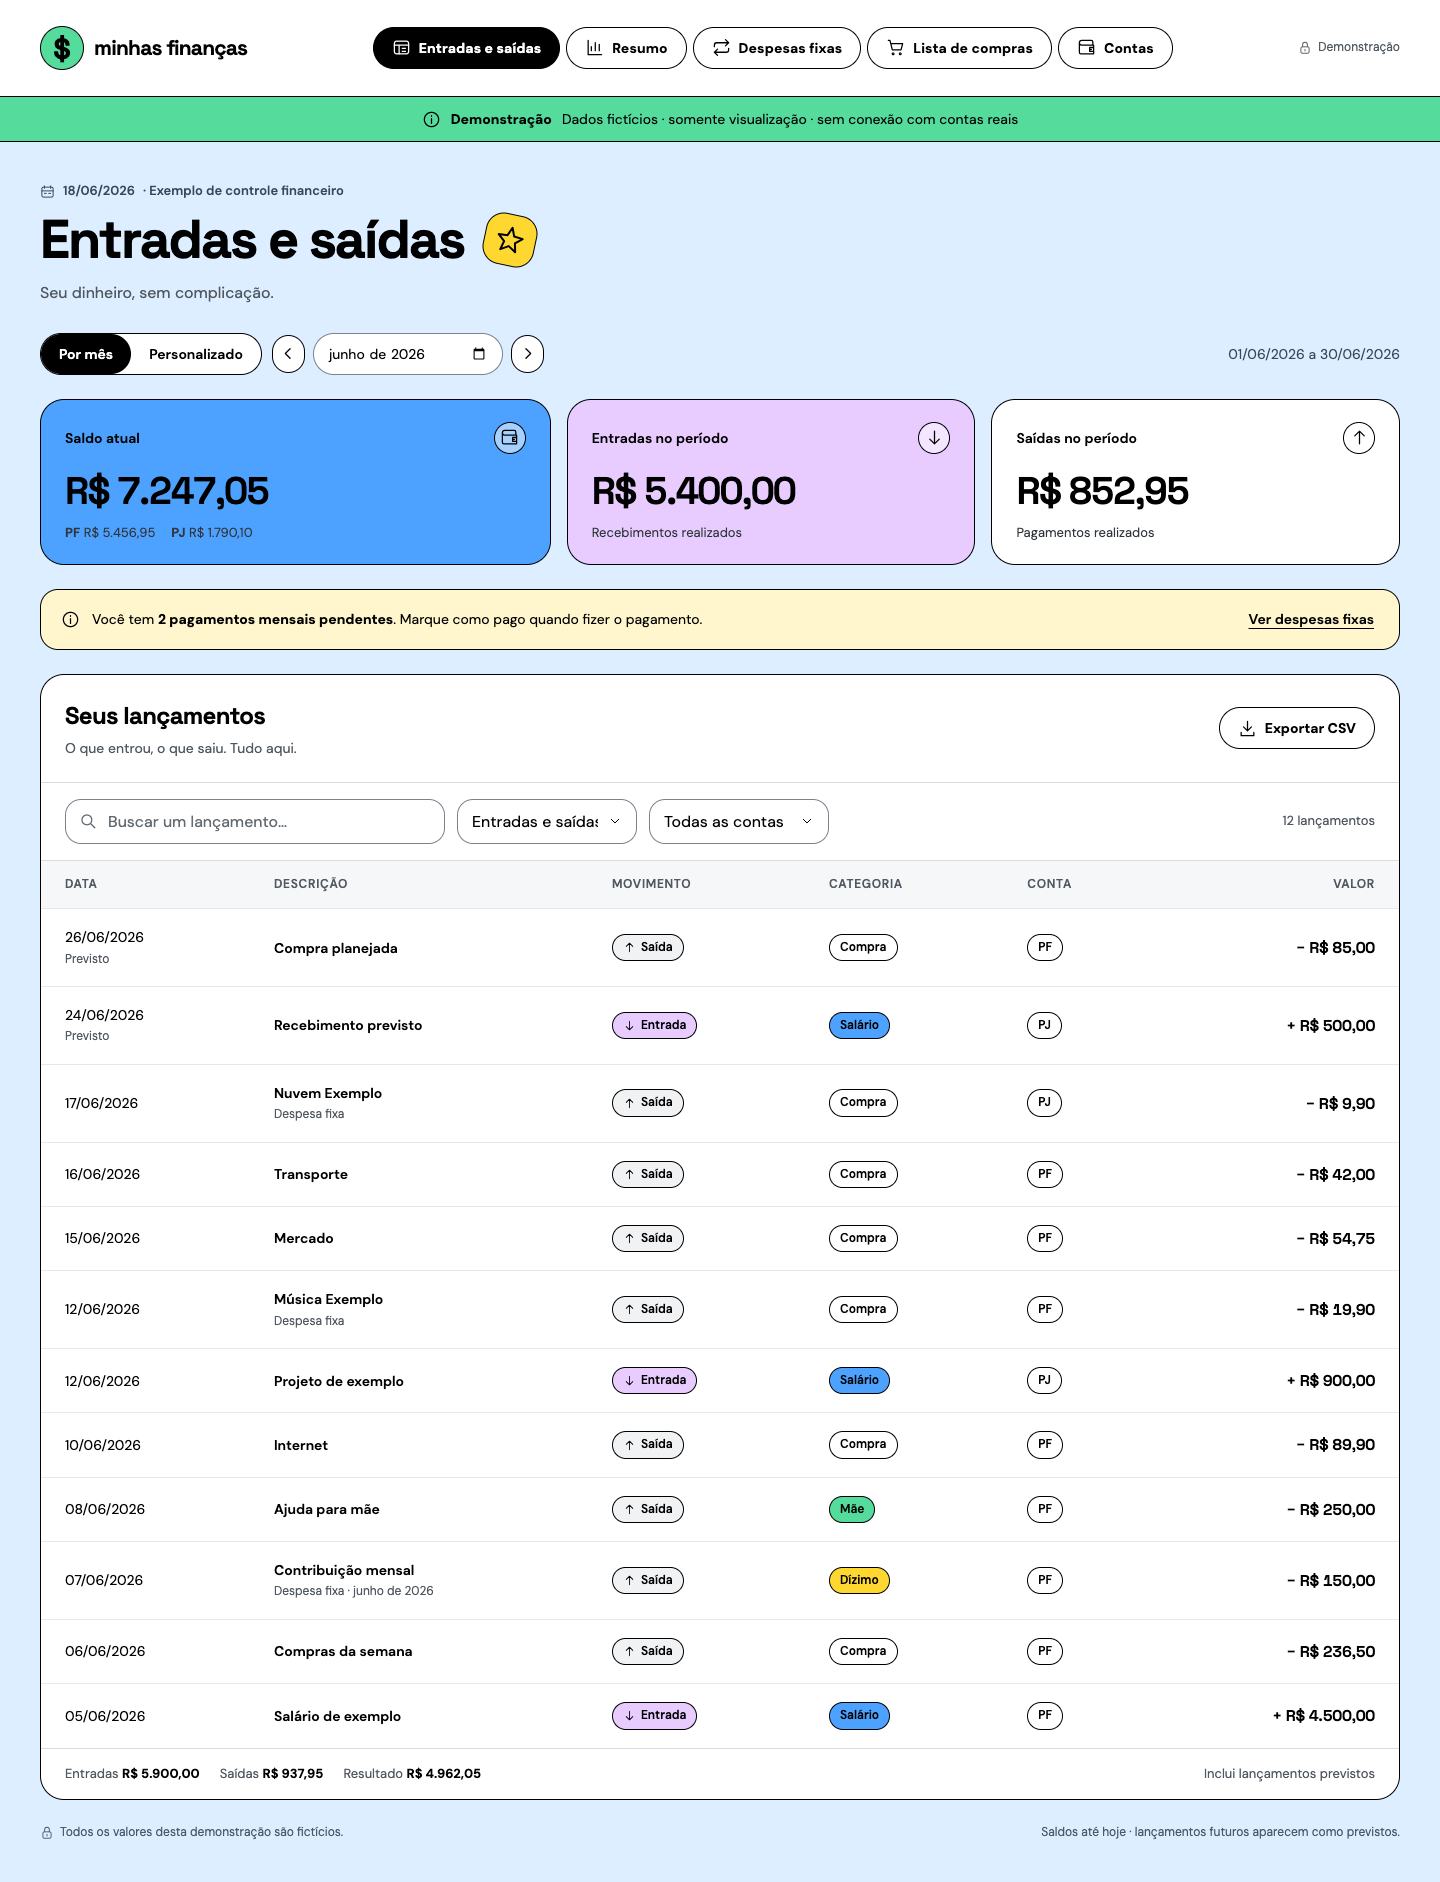
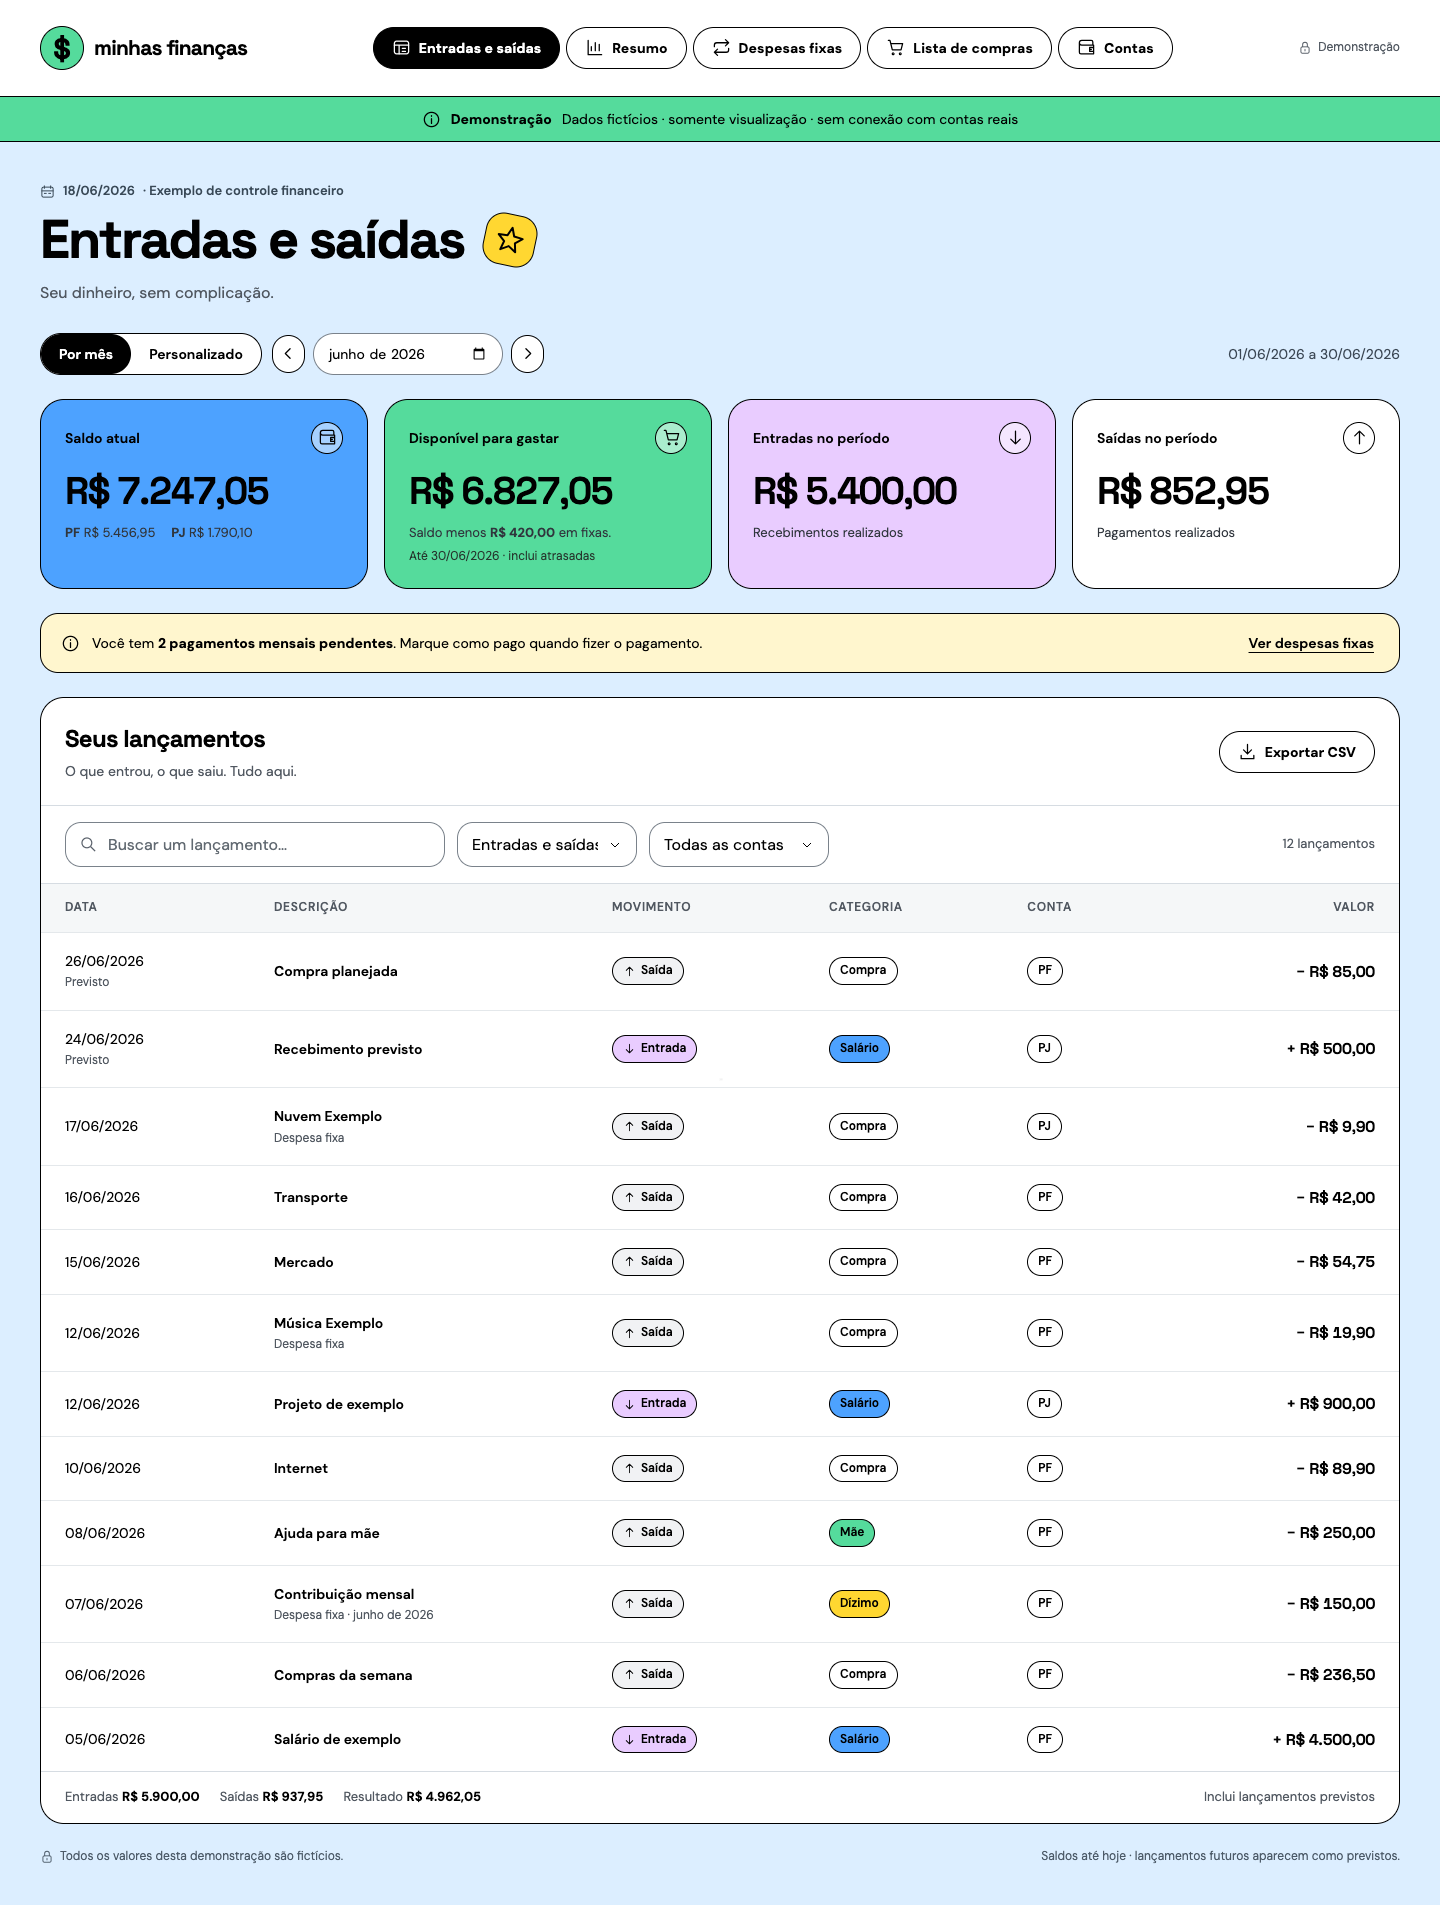
feat: show spending room after fixed expense reserve

diff --git a/test/spending.test.ts b/test/spending.test.ts
@@ -1,0 +1,106 @@
+/** Protects the spending estimate from duplicate debits, forecasts and account mixing. */
+import { test } from 'node:test';
+import assert from 'node:assert/strict';
+import { spendingRoom, type Account, type FixedExpense, type Transaction } from '../src/finance.ts';
+
+const accounts: Account[] = [
+  { id: 'PF', opening_balance: 100000, opening_date: '2026-01-01' },
+  { id: 'PJ', opening_balance: 50000, opening_date: '2026-01-01' },
+];
+
+/** Creates a fictional current monthly obligation, with explicit overrides per scenario. */
+function rule(overrides: Partial<FixedExpense> = {}): FixedExpense {
+  return { id: 'monthly', description: 'Contribuição fictícia', amount: 10000, account: 'PF', category: 'Dízimo', cadence: 'monthly', next_date: null, last_paid: null, start_month: '2026-04', automatic: 0, enabled: 1, ...overrides };
+}
+
+/** Creates a fictional paid monthly entry; future dates represent planned payments. */
+function entry(overrides: Partial<Transaction> = {}): Transaction {
+  return { id: 'paid', description: 'Pagamento fictício', amount: 10000, kind: 'expense', account: 'PF', category: 'Dízimo', date: '2026-06-10', fixed_id: 'monthly', occurrence: '2026-06', ...overrides };
+}
+
+test('current-month room includes arrears and remains unchanged when a reserved bill is paid', () => {
+  const rules = [rule()];
+  const before = spendingRoom(accounts, [], rules, '2026-06-18', 'PF');
+  assert.deepEqual(before, { balance: 100000, reserved: 30000, available: 70000, shortfall: 0, until: '2026-06-30' });
+  const paid = spendingRoom(accounts, [entry()], rules, '2026-06-18', 'PF');
+  assert.equal(paid.balance, 90000);
+  assert.equal(paid.reserved, 20000);
+  assert.equal(paid.available, before.available, 'Paying a reserved occurrence must not lower the limit twice');
+  assert.equal(spendingRoom(accounts, [], rules, '2026-06-18', 'PF').available, paid.available, 'Removing a payment must restore its reserve');
+});
+
+test('one-off obligations reserve overdue and current-month bills but exclude later and paused rules', () => {
+  const rules = [
+    rule({ id: 'overdue', cadence: 'once', next_date: '2026-05-01', amount: 3000 }),
+    rule({ id: 'due', cadence: 'once', next_date: '2026-06-30', amount: 12000, account: 'PJ' }),
+    rule({ id: 'later', cadence: 'once', next_date: '2026-07-01', amount: 9000 }),
+    rule({ id: 'paused', cadence: 'once', next_date: '2026-06-20', enabled: 0 }),
+    rule({ id: 'monthly-paused', enabled: 0 }),
+    rule({ id: 'monthly-later', start_month: '2026-07' }),
+  ];
+  const snapshot = JSON.stringify({ accounts, rules });
+  const room = spendingRoom(accounts, [], rules, '2026-06-18');
+  assert.equal(room.reserved, 15000);
+  assert.equal(room.available, 135000);
+  assert.equal(spendingRoom(accounts, [], rules, '2026-06-18', 'PF').reserved, 3000);
+  assert.equal(spendingRoom(accounts, [], rules, '2026-06-18', 'PJ').reserved, 12000);
+  assert.equal(JSON.stringify({ accounts, rules }), snapshot, 'The calculation must not mutate records');
+});
+
+test('30-day rules reserve every remaining occurrence, including two charges in a long month', () => {
+  const rules = [rule({ id: 'subscription', cadence: '30days', next_date: '2026-01-01', amount: 1990, automatic: 1 })];
+  const paid = entry({ fixed_id: 'subscription', occurrence: '2026-01-01', date: '2026-01-01', amount: 1990 });
+  const before = spendingRoom(accounts, [], rules, '2026-01-01', 'PF');
+  assert.equal(before.reserved, 3980);
+  const after = spendingRoom(accounts, [paid], rules, '2026-01-01', 'PF');
+  assert.equal(after.reserved, 1990);
+  assert.equal(after.available, before.available);
+  assert.equal(spendingRoom(accounts, [], [rule({ cadence: '30days', next_date: '2027-01-01' })], '2026-12-31').reserved, 0);
+});
+
+test('future fixed payments reserve their actual amount once and never consume forecast income', () => {
+  const transactions = [
+    entry({ id: 'future-payment', occurrence: '2026-06', date: '2026-06-25', amount: 7000 }),
+    entry({ id: 'future-income', kind: 'income', date: '2026-06-25', amount: 900000, fixed_id: null, occurrence: null }),
+    entry({ id: 'future-purchase', date: '2026-06-26', amount: 5000, fixed_id: null, occurrence: null }),
+  ];
+  // An edited rule must not double-reserve an already recorded occurrence in a different account.
+  const rules = [rule({ start_month: '2026-06', amount: 20000, account: 'PJ' })];
+  const all = spendingRoom(accounts, transactions, rules, '2026-06-18');
+  assert.equal(all.balance, 150000);
+  assert.equal(all.reserved, 7000);
+  assert.equal(all.available, 143000);
+  assert.equal(spendingRoom(accounts, transactions, rules, '2026-06-18', 'PF').reserved, 7000);
+  assert.equal(spendingRoom(accounts, transactions, rules, '2026-06-18', 'PJ').reserved, 0);
+  const realized = spendingRoom(accounts, transactions, rules, '2026-06-25');
+  assert.equal(realized.reserved, 0);
+  assert.equal(realized.balance, 1043000);
+});
+
+test('postponed and disabled-rule future payments remain reserved when their obligation is due', () => {
+  const transactions = [
+    entry({ id: 'late-payment', date: '2026-07-05', occurrence: '2026-05', amount: 7000 }),
+    entry({ id: 'disabled-rule-payment', fixed_id: 'once', occurrence: '2026-06-28', date: '2026-07-02', amount: 3000 }),
+    entry({ id: 'later-payment', fixed_id: 'later', occurrence: '2026-07-04', date: '2026-07-04', amount: 5000 }),
+  ];
+  assert.equal(spendingRoom(accounts, transactions, [rule({ enabled: 0 })], '2026-06-18').reserved, 10000);
+  assert.equal(spendingRoom(accounts, transactions, [rule()], '2026-06-18').reserved, 30000);
+});
+
+test('insufficient funds clamp the available amount at zero and expose the exact shortfall', () => {
+  const room = spendingRoom(accounts, [], [rule({ amount: 60000 })], '2026-06-18');
+  assert.equal(room.available, 0);
+  assert.equal(room.shortfall, 30000);
+  assert.equal(room.reserved, 180000);
+  const overdrawn: Account[] = [{ ...accounts[0], opening_balance: -500 }];
+  assert.equal(spendingRoom(overdrawn, [], [], '2026-06-18').available, 0);
+  assert.equal(spendingRoom(overdrawn, [], [], '2026-06-18').shortfall, 500);
+});
+
+test('month-end follows leap years and preserves paid monthly occurrences from previous years', () => {
+  assert.equal(spendingRoom(accounts, [], [], '2028-02-15').until, '2028-02-29');
+  assert.equal(spendingRoom(accounts, [], [], '2027-02-15').until, '2027-02-28');
+  const rules = [rule({ start_month: '2026-12' })];
+  const payments = [entry({ occurrence: '2026-12', date: '2026-12-31' })];
+  assert.equal(spendingRoom(accounts, payments, rules, '2027-01-15').reserved, 10000);
+});

diff --git a/src/finance.ts b/src/finance.ts
@@ -56,6 +56,74 @@ export function balance(account: Account, transactions: Transaction[], until: st
     .reduce((sum, t) => sum + (t.kind === 'income' ? t.amount : -t.amount), 0);
 }
 
+/** A current-month spending estimate; all monetary fields are integer cents. */
+export interface SpendingRoom {
+  /** Today's balance of the selected accounts, excluding future income and payments. */
+  balance: number;
+  /** Unpaid fixed expenses through month end, including older outstanding occurrences. */
+  reserved: number;
+  /** Non-negative balance remaining after the fixed-expense reserve. */
+  available: number;
+  /** Amount missing when the current balance cannot cover the reserve. */
+  shortfall: number;
+  /** Last calendar day of the current month, independent of the transaction filters. */
+  until: string;
+}
+
+/**
+ * Reserves unpaid fixed obligations through the end of today's month, by account.
+ * Paid occurrences already affect the balance and are never deducted twice.
+ * Future fixed entries reserve their recorded amount once, even if a rule was paused
+ * or the payment was moved past its due month. Income forecasts and shopping wishes
+ * are excluded. This is a calculation only; it never changes saved records.
+ */
+export function spendingRoom(accounts: Account[], transactions: Transaction[], fixed: FixedExpense[], date: string, account = 'all'): SpendingRoom {
+  const month = date.slice(0, 7);
+  const last = new Date(`${month}-01T12:00:00Z`);
+  last.setUTCMonth(last.getUTCMonth() + 1);
+  last.setUTCDate(0);
+  const until = last.toISOString().slice(0, 10);
+  const selected = accounts.filter(a => account === 'all' || a.id === account);
+  const ids = new Set<string>(selected.map(a => a.id));
+  const current = selected.reduce((sum, a) => sum + balance(a, transactions, date), 0);
+  const recorded = new Map(transactions.filter(t => t.kind === 'expense' && t.fixed_id && t.occurrence)
+    .map(t => [`${t.fixed_id}:${t.occurrence}`, t]));
+  const counted = new Set<string>();
+  let reserved = 0;
+
+  /** A recorded future payment keeps its actual amount and account, once per entry. */
+  const reserveEntry = (t: Transaction): void => {
+    if (t.date > date && ids.has(t.account) && !counted.has(t.id)) {
+      reserved += t.amount;
+      counted.add(t.id);
+    }
+  };
+  for (const t of transactions) {
+    if (t.kind !== 'expense' || !t.fixed_id || t.date <= date) continue;
+    const due = t.occurrence;
+    const dueByMonthEnd = due && ((/^20\d{2}-\d{2}$/.test(due) && due <= month) || (validDate(due) && due <= until));
+    if (t.date <= until || dueByMonthEnd) reserveEntry(t);
+  }
+  for (const rule of fixed) {
+    if (!rule.enabled) continue;
+    const occurrences = rule.cadence === 'monthly' ? monthsBetween(rule.start_month ?? month, month) : [];
+    if (rule.cadence !== 'monthly') {
+      let due = rule.next_date;
+      // The supported 2000–2099 range contains fewer than 1,220 thirty-day charges.
+      for (let count = 0; due && due <= until && count < 1220; count++) {
+        occurrences.push(due);
+        due = rule.cadence === '30days' ? addDays(due, 30) : null;
+      }
+    }
+    for (const occurrence of occurrences) {
+      const entry = recorded.get(`${rule.id}:${occurrence}`);
+      if (entry) reserveEntry(entry);
+      else if (ids.has(rule.account)) reserved += rule.amount;
+    }
+  }
+  return { balance: current, reserved, available: Math.max(0, current - reserved), shortfall: Math.max(0, reserved - current), until };
+}
+
 /** Produces at most 1,200 month references, retaining unpaid monthly obligations. */
 export function monthsBetween(start: string, end: string): string[] {
   const result: string[] = [];

diff --git a/src/views.ts b/src/views.ts
@@ -1,5 +1,5 @@
 /** Pure HTML views for the finance workspace, with all dynamic text escaped. */
-import { balance, CATEGORIES, monthsBetween, type FixedExpense } from './finance';
+import { balance, CATEGORIES, monthsBetween, spendingRoom, type FixedExpense } from './finance';
 import { categoryTag, dateLabel, esc, icon, money, monthLabel, range, rows, totals, type State } from './ui';
 
 /** Calculates missing monthly payments; no deadline is invented for the tithe. */
@@ -24,12 +24,13 @@ function period(state: State): string {
     <span class="period-description">${dateLabel(from)} a ${dateLabel(to)}</span></div>`;
 }
 
-/** Current balances are independent of selected period; cash flow only includes realized rows. */
+/** Current balance and spending room ignore period filters; realized cash flow respects them. */
 function metrics(state: State): string {
   const accounts = state.data.accounts.filter(a => state.account === 'all' || a.id === state.account);
-  const current = accounts.reduce((sum, a) => sum + balance(a, state.data.transactions, state.data.today), 0);
+  const room = spendingRoom(state.data.accounts, state.data.transactions, state.data.fixed, state.data.today, state.account);
   const total = totals(rows(state).filter(t => t.date <= state.data.today));
-  return `<section class="metrics" aria-label="Resumo financeiro"><article class="metric balance"><div class="metric-label">Saldo atual ${state.account !== 'all' ? `· ${state.account}` : ''}<span class="round-icon">${icon('wallet')}</span></div><div class="metric-value">${money(current)}</div><div class="metric-note account-inline">${accounts.map(a => `<span><strong>${a.id}</strong> ${money(balance(a, state.data.transactions, state.data.today))}</span>`).join('')}</div></article>
+  return `<section class="metrics" aria-label="Resumo financeiro"><article class="metric balance"><div class="metric-label">Saldo atual ${state.account !== 'all' ? `· ${state.account}` : ''}<span class="round-icon">${icon('wallet')}</span></div><div class="metric-value">${money(room.balance)}</div><div class="metric-note account-inline">${accounts.map(a => `<span><strong>${a.id}</strong> ${money(balance(a, state.data.transactions, state.data.today))}</span>`).join('')}</div></article>
+    <article class="metric spending" aria-label="Disponível para gastar"><div class="metric-label">Disponível para gastar${state.account !== 'all' ? ` · ${state.account}` : ''}<span class="round-icon">${icon('cart')}</span></div><div class="metric-value">${money(room.available)}</div><p class="metric-note">Saldo menos <strong>${money(room.reserved)}</strong> em fixas.</p><p class="spending-period">Até ${dateLabel(room.until)} · inclui atrasadas</p>${room.shortfall ? `<p class="spending-shortfall">Faltam ${money(room.shortfall)} para cobrir a reserva.</p>` : ''}</article>
     <article class="metric income"><div class="metric-label">Entradas no período<span class="round-icon">${icon('down')}</span></div><div class="metric-value">${money(total.income)}</div><p class="metric-note">Recebimentos realizados</p></article>
     <article class="metric expense"><div class="metric-label">Saídas no período<span class="round-icon">${icon('up')}</span></div><div class="metric-value">${money(total.expense)}</div><p class="metric-note">Pagamentos realizados</p></article></section>`;
 }

diff --git a/src/style.css b/src/style.css
@@ -64,3 +64,7 @@
 .shopping-total{background:var(--mint);color:#26382e}.shopping-total strong{color:#000;font-size:20px;margin-left:12px;font-variant-numeric:tabular-nums}
 .shopping-panel .row-description{overflow-wrap:anywhere}
 @media(max-width:760px){.shopping-panel table{min-width:460px}.shopping-total{align-items:flex-start;flex-direction:column;gap:8px}}
+/* Current spending room shares the existing summary row and shows its month-end reserve. */
+.metrics{grid-template-columns:repeat(4,minmax(0,1fr))}.metric.spending{background:var(--mint)}.metric.spending .metric-value{overflow-wrap:anywhere}.spending-period{font-size:12px;margin-top:6px;color:#26382e}.spending-shortfall{font-size:13px;font-weight:600;margin-top:10px}
+@media(max-width:1150px){.metrics{grid-template-columns:repeat(2,minmax(0,1fr))}}
+@media(max-width:760px){.metric.spending{grid-column:1/-1;min-height:auto}}

diff --git a/README.md b/README.md
@@ -23,6 +23,10 @@ Os controles que alteram registros ficam ocultos.
 - Categorias Salário, Compra, Dízimo e Mãe.
 - Filtros por mês, intervalo personalizado, conta e movimento.
 - Resumo financeiro, distribuição por categoria e totais mensais.
+- Card de disponível para gastar: saldo atual menos fixas a pagar até o fim
+  do mês atual, incluindo pendências anteriores e respeitando a conta filtrada.
+- Fixas já pagas não são descontadas duas vezes; recebimentos futuros não
+  aumentam o disponível. Se faltar saldo para a reserva, o card informa o valor.
 - Despesas a cada 30 dias, mensais sem prazo ou com vencimento único.
 - Lançamentos automáticos com proteção contra duplicação.
 - Saldos iniciais editáveis e identificação de lançamentos previstos.
